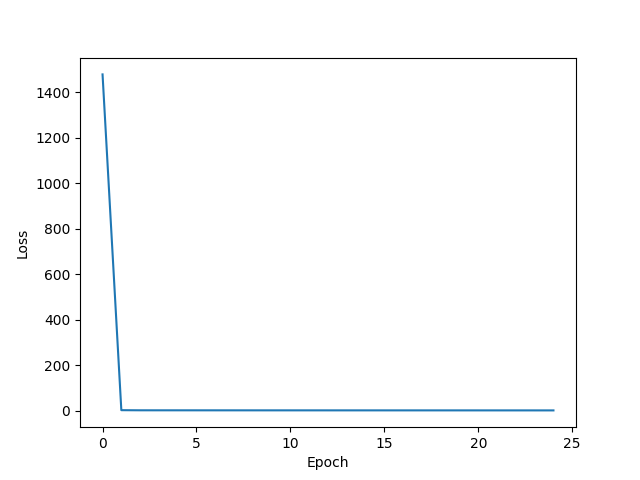
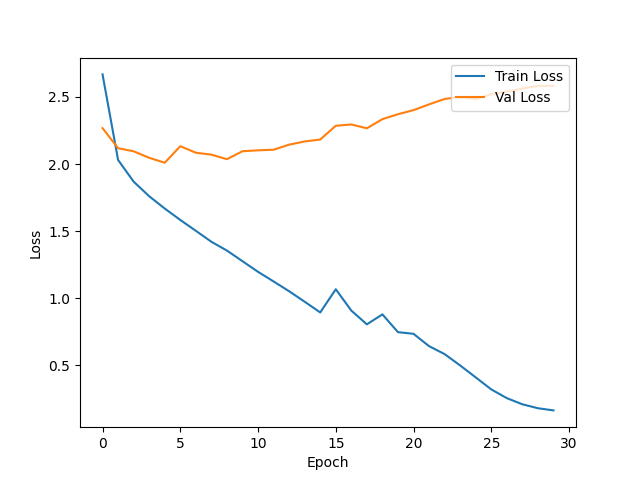
adding loss plots and cifar100 code

diff --git a/src/dev.py b/src/dev.py
@@ -1,4 +1,4 @@
-from torchvision.datasets import CIFAR10
+from torchvision.datasets import CIFAR10, CIFAR100
 from torch.utils.data import DataLoader
 import torchvision.transforms as transform
 from torch import optim
@@ -8,6 +8,7 @@ import torch
 import argparse
 import functions
 from train import train
+import os
 
 
 parser = argparse.ArgumentParser()
@@ -18,6 +19,7 @@ parser.add_argument('-s', type=str, help='decoder weight file')
 parser.add_argument('-p', type=str, help='Loss output image')
 parser.add_argument('-cuda', type=str, help='[Y/N] for gpu usage')
 parser.add_argument('-vanilla', type=str, help='Vanilla model [Y/N]')
+parser.add_argument('-dataset', type=str, help='10 or 100 for cifar dataset')
 opt = parser.parse_args()
 
 encoder_file = opt.l
@@ -41,13 +43,24 @@ backend = vanillaModel.vggClassifier.vgg
 backend.to(device)
 backend.load_state_dict(torch.load(encoder_file, map_location=device))
 
-if decoder_file != None:
-    frontend = vanillaModel.vggClassifier.classifier
-    frontend.to(device)
-    frontend.load_state_dict(torch.load(decoder_file, map_location=device))
-    model = vanillaModel.VanillaModel(backend, frontend)
+dataset = opt.dataset
+
+if dataset == '10':
+    if decoder_file != None:
+        frontend = vanillaModel.vggClassifier.classifier
+        frontend.to(device)
+        frontend.load_state_dict(torch.load(decoder_file, map_location=device))
+        model = vanillaModel.VanillaModel(backend, frontend)
+    else:
+        model = vanillaModel.VanillaModel(backend, device=device)
 else:
-    model = vanillaModel.VanillaModel(backend)
+    if decoder_file != None:
+        frontend = vanillaModel.vggClassifier.classifier_100
+        frontend.to(device)
+        frontend.load_state_dict(torch.load(decoder_file, map_location=device))
+        model = vanillaModel.VanillaModel(backend, frontend, dataset='100')
+    else:
+        model = vanillaModel.VanillaModel(backend, device=device, dataset='100')
 
 #model = torch.hub.load('pytorch/vision:v0.10.0', 'resnet18')
 #model.to(device)
@@ -75,9 +88,16 @@ train_transform_exotic = transform.Compose([transform.RandomCrop(32, padding=4),
                                      transform.ToTensor(),
                                      transform.Normalize((0.4914, 0.4822, 0.4465), (0.2023, 0.1994, 0.2010)),])
 train_transform_vanilla = transform.Compose([transform.ToTensor()])
-dataset_train = CIFAR10('./data', download=True, train=True, transform=train_transform_vanilla)
-dataset_test = CIFAR10('./data', download=True, train=False, transform=train_transform_vanilla)
+#dataset_train = CIFAR10('./data', download=True, train=True, transform=train_transform_exotic)
+#dataset_test = CIFAR10('./data', download=True, train=False, transform=train_transform_exotic)
+dataset_train = CIFAR100('./data', download=True, train=True, transform=train_transform_vanilla)
+dataset_test = CIFAR100('./data', download=True, train=False, transform=train_transform_vanilla)
+
 train_dl = DataLoader(dataset_train, batch_size=batch_size, shuffle=True)
 test_dl = DataLoader(dataset_test, batch_size=batch_size, shuffle=False)
+
+#os.environ['CUDA_LAUNCH_BLOCKING'] = "1"
+#os.environ['TORCH_USE_CUDA_DSA'] = "1"
+
 
 train(model, n_epochs, train_dl, test_dl, device, optimizer, scheduler, loss_fn, loss_file)

diff --git a/src/train.py b/src/train.py
@@ -30,19 +30,27 @@ def train(model, n_epochs, train_dl, test_dl, device, optimizer, scheduler, loss
             loss_epoch += loss.item()
             if index % 100 == 0:
                 print(f"Batch {index} loss: {loss}")
+
+        test_a, test_l = functions.accuracy_loss(model, test_dl, device, loss_fn)
+        print(f"Test accuracy epoch {epoch}: {test_a}")
+        test_accuracy.append(test_a)
+        test_loss.append(test_l)
+        model.train()
         losses_list.append(loss_epoch / index)
         print(f"Epoch {epoch} loss: {losses_list[epoch]}")
         if epoch % 5 == 0:
             state_dict = model.classifier.state_dict()
-            torch.save(state_dict, f"./weights/weight_epoch_{epoch}.pth")
-            test_a, test_l = functions.accuracy_loss(model, test_dl, device, loss_fn)
-            print(f"Test accuracy epoch {epoch}: {test_a}")
-            test_accuracy.append(test_a)
-            test_loss.append(test_l)
-            model.train()
+            torch.save(state_dict, f"./weights/weight_vanilla_epoch_{epoch}.pth")
+            #test_a, test_l = functions.accuracy_loss(model, test_dl, device, loss_fn)
+            #print(f"Test accuracy epoch {epoch}: {test_a}")
+            #test_accuracy.append(test_a)
+            #test_loss.append(test_l)
+            #model.train()
         scheduler.step()
 
-    plt.plot(losses_list, label="Loss")
+    plt.plot(losses_list, label="Train Loss")
+    plt.plot(test_loss, label="Val Loss")
     plt.xlabel("Epoch")
     plt.ylabel("Loss")
+    plt.legend(loc='upper right')
     plt.savefig(loss_file)

diff --git a/src/vanillaModel.py b/src/vanillaModel.py
@@ -41,20 +41,36 @@ class vggClassifier(nn.Module):
         nn.Flatten(),
         nn.Linear(2048, 10)
     )
+    classifier_100 = nn.Sequential(
+        nn.Conv2d(512, 256, (1, 1)),
+        nn.Conv2d(256, 128, (1, 1)),
+        nn.Flatten(),
+        nn.Linear(2048, 100)
+    )
 
 
 class VanillaModel(nn.Module):
-    def __init__(self, backend, frontend=None):
+    def __init__(self, backend, frontend=None, device='cpu', dataset='10'):
         super(VanillaModel, self).__init__()
         self.encoder = backend
         for param in self.encoder.parameters():
             param.requires_grad = False
-        if frontend == None:
-            self.classifier = vggClassifier.vgg
-            for param in self.classifier.parameters():
-                nn.init.normal_(param, mean=0, std=0.01)
+        if dataset == '10':
+            if frontend == None:
+                self.classifier = vggClassifier.classifier
+                self.classifier.to(device)
+                for param in self.classifier.parameters():
+                    nn.init.normal_(param, mean=0, std=0.01)
+            else:
+                self.classifier = frontend
         else:
-            self.classifier = frontend
+            if frontend == None:
+                self.classifier = vggClassifier.classifier_100
+                self.classifier.to(device)
+                for param in self.classifier.parameters():
+                    nn.init.normal_(param, mean=0, std=0.01)
+            else:
+                self.classifier = frontend
 
         self.loss = nn.CrossEntropyLoss()
 
